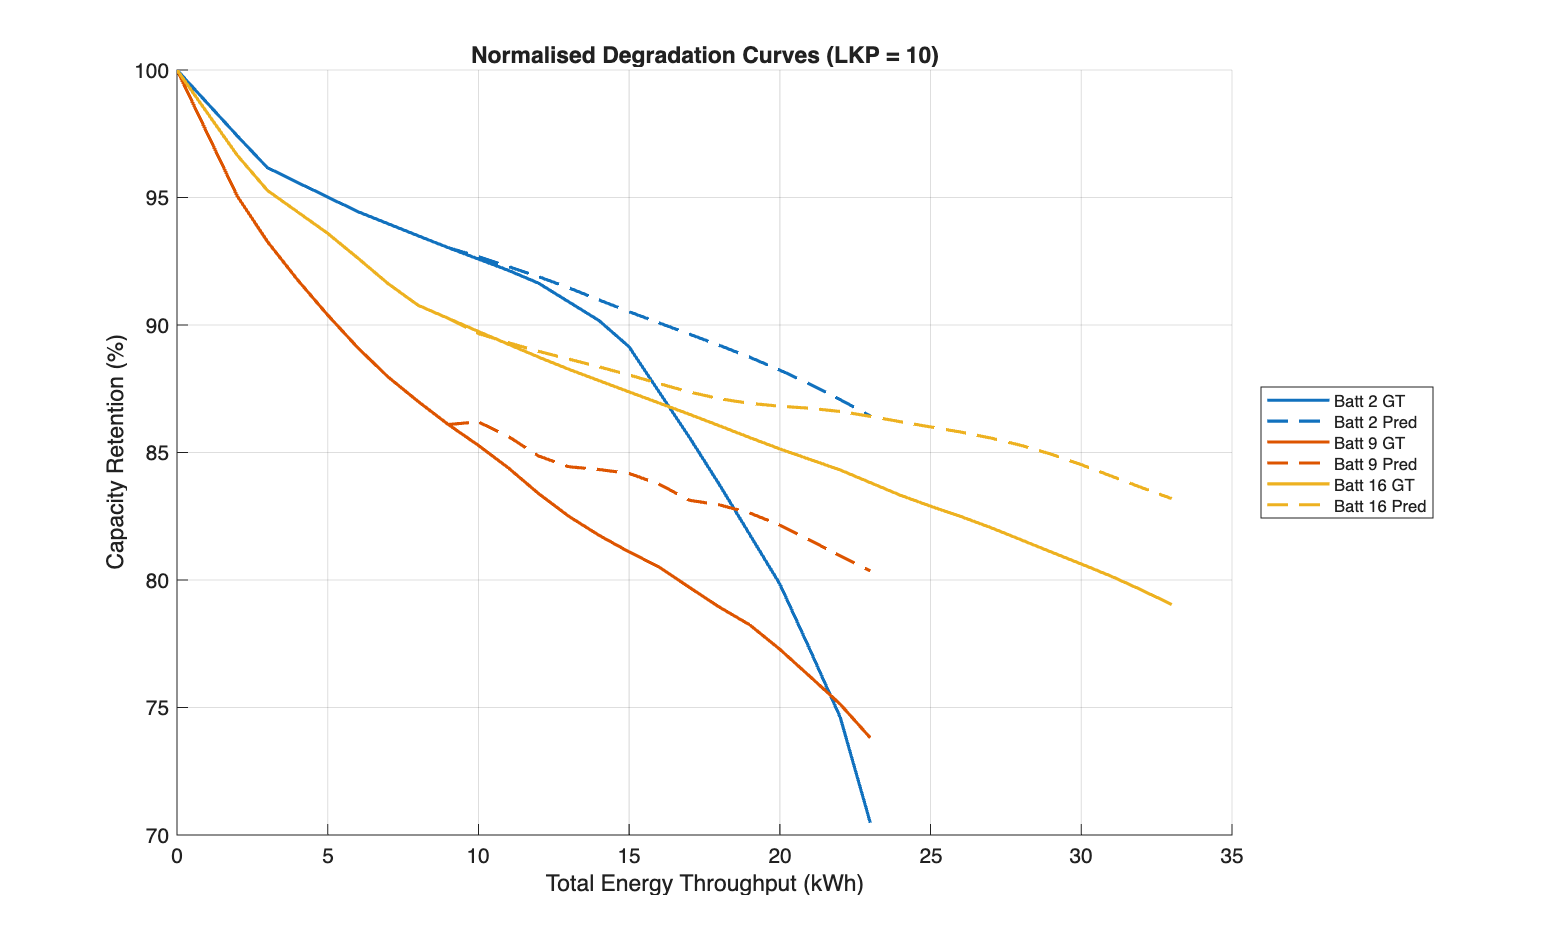
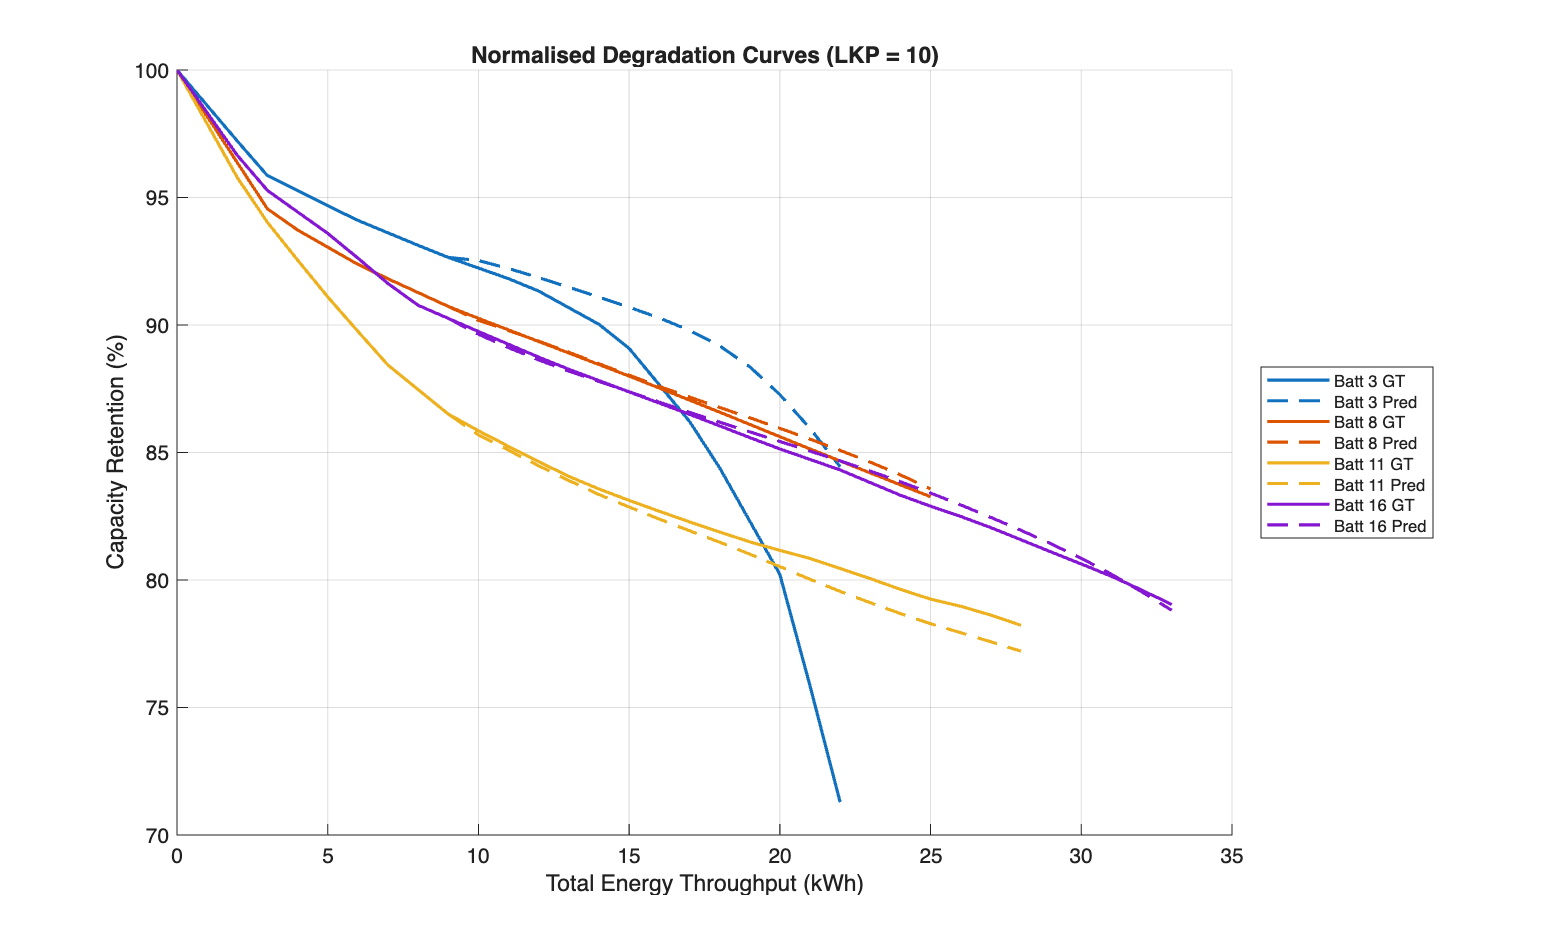
testing batteries 3, 8, 11, 16

diff --git a/single_model.m b/single_model.m
@@ -7,10 +7,10 @@ close all;
 
 % ====== CONFIGURATION ======
 % Select which batteries to hold out for testing
-test_battery_indices = [2, 9, 16];  % Example: test on batteries 2, 9, 16
+test_battery_indices = [3,8,11,16];%[2, 9, 16];  % Example: test on batteries 2, 9, 16
 
 % Target features to use
-target_Feature = [1:13];
+target_Feature = [1:7, 12:21];
 desired_features = target_Feature;
 
 % Hyperparameters
